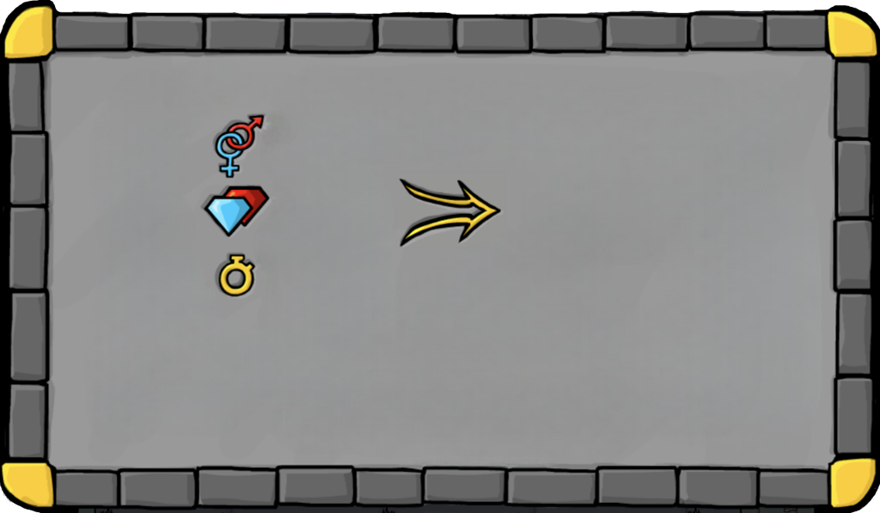
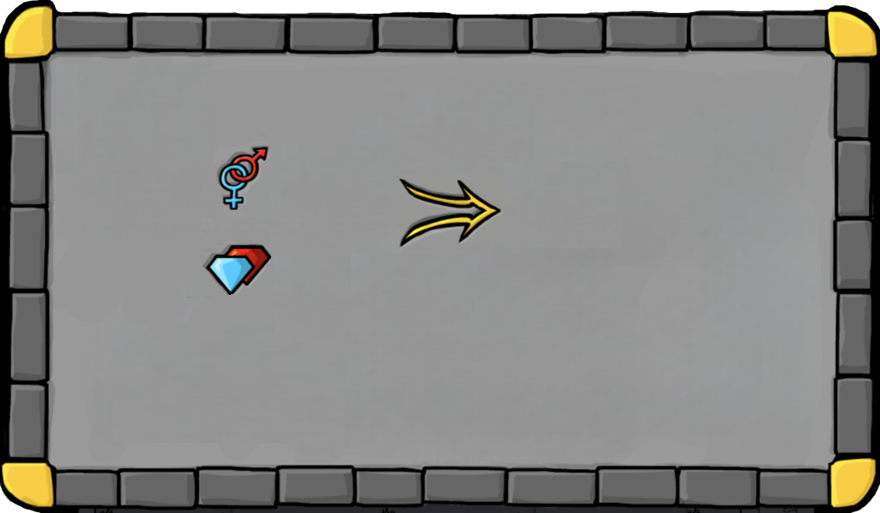
edit win page

Changed region(s): [[0.2148, 0.2183, 0.3068, 0.5926]]

diff --git a/src/Game/AppGameWin.cpp b/src/Game/AppGameWin.cpp
@@ -24,7 +24,7 @@ void App::GameWin() {
   if (!m_CharacterIndicator) {
     m_CharacterIndicator = std::make_shared<BackgroundImage>(
         RESOURCE_DIR "/material/background/icon/result-pass.png", 40);
-    m_CharacterIndicator->SetPosition(glm::vec2(-100, 110));
+    m_CharacterIndicator->SetPosition(glm::vec2(-100, 85));
     m_Root.AddChild(m_CharacterIndicator);
   }
   m_CharacterIndicator->SetVisible(true);
@@ -35,7 +35,7 @@ void App::GameWin() {
                       : RESOURCE_DIR
             "/material/background/icon/result-fail.png",
         40);
-    m_GemCollectedIndicator->SetPosition(glm::vec2(-100, 50));
+    m_GemCollectedIndicator->SetPosition(glm::vec2(-100, -10));
     m_Root.AddChild(m_GemCollectedIndicator);
   } else {
     // Update existing image
